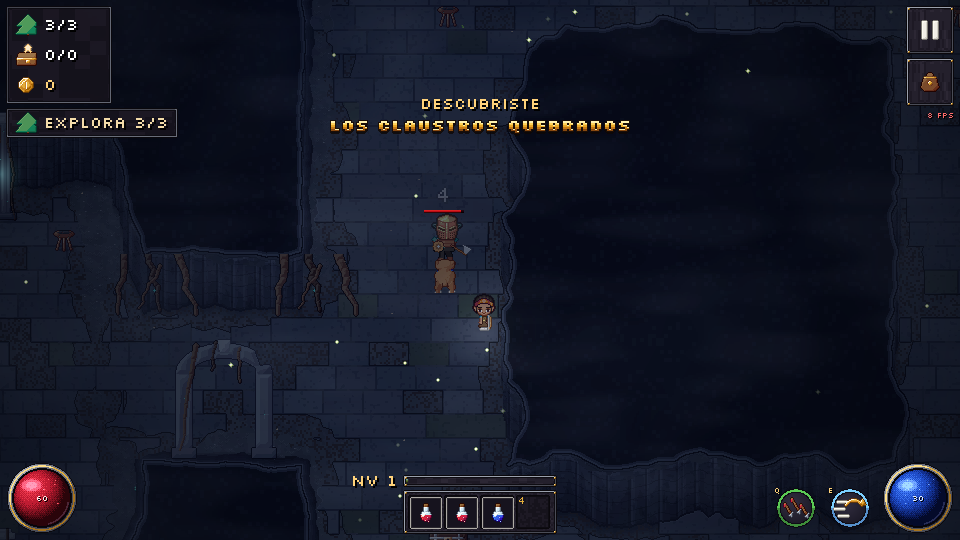
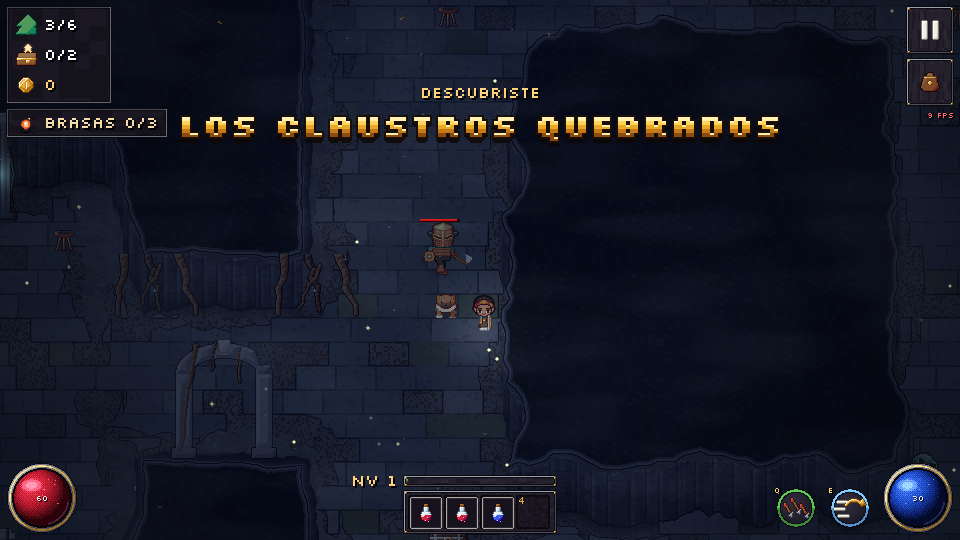
F8: nombre del jefe en la barra, las raíces se van al terminar la pelea, capturas e informe de la Catedral
Claude-Session: https://claude.ai/code/session_01FVGDw8m8HkUtXF2k5wxUDf

Changed region(s): [[0.0, 0.1481, 0.8125, 0.2667], [0.4375, 0.3852, 0.5312, 0.5926], [0.0625, 0.0889, 0.0938, 0.1185]]

diff --git a/docs/capturas/f8/informe.html b/docs/capturas/f8/informe.html
@@ -1,0 +1,26 @@
+<!doctype html>
+<html lang="es"><head><meta charset="utf-8"><meta name="viewport" content="width=device-width,initial-scale=1"><title>La Catedral de las Raíces</title>
+<style>
+ body { background:#0b0e14; color:#e6e0d2; font:16px/1.45 system-ui,sans-serif; margin:0; padding:24px; max-width:1400px }
+ h1 { font-size:24px; margin:0 0 4px } h2 { font-size:18px; color:#8affe8; margin:32px 0 6px } p { color:#b8b4a8; margin:0 0 10px }
+ .par { display:grid; grid-template-columns:1fr 1fr; gap:12px } figure { margin:0 }
+ img { width:100%; image-rendering:pixelated; display:block; border:1px solid #2a3040 } figcaption { color:#9a9caa; font-size:13px; margin-top:4px }
+ ul { color:#cfcabd } li { margin:4px 0 } .nota { color:#ffd27a }
+ @media (max-width:800px) { .par { grid-template-columns:1fr } }
+</style></head><body>
+<h1>La Catedral de las Raíces</h1>
+<p>Mundo 2 de GG Abyss. Capturas del juego con luces, bruma, partículas y personajes, en escritorio y en tablet.</p>
+<h2>Lo comprobado</h2>
+<ul id="comprobado">
+<li>Suite completa: en verificación (se actualiza al terminar).</li>
+<li>Se completa de la entrada al desenlace: bajar por el portal del minotauro, recoger las tres brasas, entrar caminando a la forja y al campanario, liberar al guardián y llegar a la bajada (pruebas de la Catedral en escritorio y tablet).</li>
+<li>Las brasas abren el camino en orden: con todo cerrado no se llega a la forja; con 1 brasa sí. Las dos primeras se alcanzan sin ninguna (sin trabas).</li>
+<li>Guardado: la partida recuerda el mundo, las zonas, las brasas y las compuertas al recargar; volver al Bosque deja todo como estaba (jefe vencido, portal abierto) y el oro y el nivel viajan con la heroína. Las partidas viejas quedan en el Bosque.</li>
+<li>El Bosque no cambió: el kit regenerado deja todos sus archivos idénticos.</li>
+<li>Tablet con toque: el recorrido, los portales y el refugio pasan en la vista tablet. Modo peque: las pruebas del vado y de las brasas corren con Alana, que tiene el modo peque prendido.</li>
+<li>Calidad baja: <a href="atrio_calidad_baja.png">el atrio en calidad baja</a> mantiene el camino, el refugio y los avisos legibles.</li>
+<li class="nota">No medido: el rendimiento en una tablet de verdad. Las capturas vienen del Chromium sin GPU del contenedor. Para medir en el iPad: abrir el juego con ?medir=1.</li>
+<li class="nota">Hecho con piezas técnicas mientras el taller entrega lo suyo: el anillo de la onda, la mancha de raíces y el audio propio de la Catedral (ASSETS_PENDIENTES #30).</li>
+</ul>
+<section><h2>La bajada</h2><p>El paso entre mundos: el nombre del mundo sobre negro y el sonido del portal. Un toque lo salta.</p><div class="par"><figure><img src="bajada.png" alt="Escritorio (960 x 540)" loading="lazy"><figcaption>Escritorio (960 x 540)</figcaption></figure><figure><img src="bajada_tablet.png" alt="Tablet (1180 x 820, dpr 2)" loading="lazy"><figcaption>Tablet (1180 x 820, dpr 2)</figcaption></figure></div></section><section><h2>La escalera hundida</h2><p>Llega arriba, en el descanso, con el portal azul para volver al Bosque. La luz de afuera baja por los escalones y se apaga.</p><div class="par"><figure><img src="escalera_hundida.png" alt="Escritorio (960 x 540)" loading="lazy"><figcaption>Escritorio (960 x 540)</figcaption></figure><figure><img src="escalera_hundida_tablet.png" alt="Tablet (1180 x 820, dpr 2)" loading="lazy"><figcaption>Tablet (1180 x 820, dpr 2)</figcaption></figure></div></section><section><h2>El atrio de las luciérnagas</h2><p>El primer refugio: el brasero de cobre es fogata y tienda. El pedestal muestra las tres brasas que faltan, sin texto.</p><div class="par"><figure><img src="atrio_luciernagas.png" alt="Escritorio (960 x 540)" loading="lazy"><figcaption>Escritorio (960 x 540)</figcaption></figure><figure><img src="atrio_luciernagas_tablet.png" alt="Tablet (1180 x 820, dpr 2)" loading="lazy"><figcaption>Tablet (1180 x 820, dpr 2)</figcaption></figure></div></section><section><h2>El atrio con las brasas</h2><p>Con las brasas: el pedestal y los braseros encendidos.</p><div class="par"><figure><img src="atrio_con_brasas.png" alt="Escritorio (960 x 540)" loading="lazy"><figcaption>Escritorio (960 x 540)</figcaption></figure><figure><img src="atrio_con_brasas_tablet.png" alt="Tablet (1180 x 820, dpr 2)" loading="lazy"><figcaption>Tablet (1180 x 820, dpr 2)</figcaption></figure></div></section><section><h2>Los claustros quebrados</h2><p>Ruta clara alrededor del jardín cerrado. El guardián de cobre en la entrada, raicitas en el pasillo del este y una brasa arriba.</p><div class="par"><figure><img src="claustros_quebrados.png" alt="Escritorio (960 x 540)" loading="lazy"><figcaption>Escritorio (960 x 540)</figcaption></figure><figure><img src="claustros_quebrados_tablet.png" alt="Tablet (1180 x 820, dpr 2)" loading="lazy"><figcaption>Tablet (1180 x 820, dpr 2)</figcaption></figure></div></section><section><h2>El guardián de cobre</h2><p>Su golpe grande avisa 1.5 s con el anillo rojo. Después queda clavado un segundo: ahí se le pega.</p><div class="par"><figure><img src="guardian_aviso.png" alt="Escritorio (960 x 540)" loading="lazy"><figcaption>Escritorio (960 x 540)</figcaption></figure><figure><img src="guardian_aviso_tablet.png" alt="Tablet (1180 x 820, dpr 2)" loading="lazy"><figcaption>Tablet (1180 x 820, dpr 2)</figcaption></figure></div></section><section><h2>La capilla escondida</h2><p>El secreto: una rendija con raíces en el muro del claustro y un cofre dorado. Thor lo huele.</p><div class="par"><figure><img src="capilla_escondida.png" alt="Escritorio (960 x 540)" loading="lazy"><figcaption>Escritorio (960 x 540)</figcaption></figure><figure><img src="capilla_escondida_tablet.png" alt="Tablet (1180 x 820, dpr 2)" loading="lazy"><figcaption>Tablet (1180 x 820, dpr 2)</figcaption></figure></div></section><section><h2>La nave inundada</h2><p>El río de agua casi negra. El puente es seguro. En el vado, pisar fuera de las losas es caer: Thor la saca y no se pierde nada. El vigía tira su bola violeta desde la otra orilla.</p><div class="par"><figure><img src="nave_inundada.png" alt="Escritorio (960 x 540)" loading="lazy"><figcaption>Escritorio (960 x 540)</figcaption></figure><figure><img src="nave_inundada_tablet.png" alt="Tablet (1180 x 820, dpr 2)" loading="lazy"><figcaption>Tablet (1180 x 820, dpr 2)</figcaption></figure></div></section><section><h2>La forja apagada</h2><p>El centro del mundo, cerrado con raíces hasta la primera brasa.</p><div class="par"><figure><img src="forja_apagada.png" alt="Escritorio (960 x 540)" loading="lazy"><figcaption>Escritorio (960 x 540)</figcaption></figure><figure><img src="forja_apagada_tablet.png" alt="Tablet (1180 x 820, dpr 2)" loading="lazy"><figcaption>Tablet (1180 x 820, dpr 2)</figcaption></figure></div></section><section><h2>La forja encendida</h2><p>Con las tres brasas: la boca arde, las raíces pasan a turquesa y se abre el camino al campanario.</p><div class="par"><figure><img src="forja_encendida.png" alt="Escritorio (960 x 540)" loading="lazy"><figcaption>Escritorio (960 x 540)</figcaption></figure><figure><img src="forja_encendida_tablet.png" alt="Tablet (1180 x 820, dpr 2)" loading="lazy"><figcaption>Tablet (1180 x 820, dpr 2)</figcaption></figure></div></section><section><h2>El campanario invertido</h2><p>La arena alrededor de la campana colgada de las raíces.</p><div class="par"><figure><img src="campanario.png" alt="Escritorio (960 x 540)" loading="lazy"><figcaption>Escritorio (960 x 540)</figcaption></figure><figure><img src="campanario_tablet.png" alt="Tablet (1180 x 820, dpr 2)" loading="lazy"><figcaption>Tablet (1180 x 820, dpr 2)</figcaption></figure></div></section><section><h2>El Guardián de la Campana: la entrada</h2><p>Su nombre grande y la barra arriba.</p><div class="par"><figure><img src="campana_entrada.png" alt="Escritorio (960 x 540)" loading="lazy"><figcaption>Escritorio (960 x 540)</figcaption></figure><figure><img src="campana_entrada_tablet.png" alt="Tablet (1180 x 820, dpr 2)" loading="lazy"><figcaption>Tablet (1180 x 820, dpr 2)</figcaption></figure></div></section><section><h2>Golpe frontal</h2><p>Fase 1: solo el golpe frontal anunciado.</p><div class="par"><figure><img src="campana_golpe.png" alt="Escritorio (960 x 540)" loading="lazy"><figcaption>Escritorio (960 x 540)</figcaption></figure><figure><img src="campana_golpe_tablet.png" alt="Tablet (1180 x 820, dpr 2)" loading="lazy"><figcaption>Tablet (1180 x 820, dpr 2)</figcaption></figure></div></section><section><h2>Onda de campana</h2><p>Fase 2, la primera vez sola: el anillo violeta pega, el centro turquesa (cerca de la campana) está a salvo. Después queda aturdido.</p><div class="par"><figure><img src="campana_onda.png" alt="Escritorio (960 x 540)" loading="lazy"><figcaption>Escritorio (960 x 540)</figcaption></figure><figure><img src="campana_onda_tablet.png" alt="Tablet (1180 x 820, dpr 2)" loading="lazy"><figcaption>Tablet (1180 x 820, dpr 2)</figcaption></figure></div></section><section><h2>Llamada de raíces</h2><p>Con poca vida, la primera vez sola: tres manchas donde salen raíces que tapan el paso un rato, sin encerrarla.</p><div class="par"><figure><img src="campana_raices.png" alt="Escritorio (960 x 540)" loading="lazy"><figcaption>Escritorio (960 x 540)</figcaption></figure><figure><img src="campana_raices_tablet.png" alt="Tablet (1180 x 820, dpr 2)" loading="lazy"><figcaption>Tablet (1180 x 820, dpr 2)</figcaption></figure></div></section><section><h2>La Catedral liberada</h2><p>La campana pasa a turquesa, la oscuridad baja y se abre la bajada más honda.</p><div class="par"><figure><img src="campana_libre.png" alt="Escritorio (960 x 540)" loading="lazy"><figcaption>Escritorio (960 x 540)</figcaption></figure><figure><img src="campana_libre_tablet.png" alt="Tablet (1180 x 820, dpr 2)" loading="lazy"><figcaption>Tablet (1180 x 820, dpr 2)</figcaption></figure></div></section>
+</body></html>

diff --git a/e2e/postales.spec.ts b/e2e/postales.spec.ts
@@ -366,3 +366,61 @@ test('captura la Catedral: la bajada, la escalera, el atrio, los claustros con e
     await ctx.close()
   }
 })
+
+/** F8: el Guardián de la Campana: la entrada, la onda (el anillo con el centro seguro), las raíces y la liberación */
+test('captura al Guardián de la Campana y la Catedral liberada', async ({ browser }) => {
+  test.setTimeout(400_000)
+  const dir = join('docs', 'capturas', 'f8')
+  mkdirSync(dir, { recursive: true })
+  const vistas = [
+    { sufijo: '', ctx: { viewport: { width: 960, height: 540 }, deviceScaleFactor: 1 } },
+    { sufijo: '_tablet', ctx: { viewport: { width: 1180, height: 820 }, deviceScaleFactor: 2, hasTouch: true, isMobile: true } },
+  ]
+  type J = { fase: number; vida: number; vidaMax: number; avisos: { ataque: string; resta: number; total: number }[] }
+  for (const v of vistas) {
+    const ctx = await browser.newContext(v.ctx)
+    const page = await ctx.newPage()
+    const errores = vigilarErrores(page)
+    await abrirMundo(page, 'sophie')
+    await gancho(page, 'irAMundo', 'mundo2')
+    await esperarEscena(page, 'Bajada')
+    await esperarEscena(page, 'Mundo')
+    await page.waitForFunction(() => { const a = window.__ABYSS__ as unknown as Record<string, () => unknown>; return typeof a.noEsperar === 'function' && a.noEsperar() === true && typeof a.mundoActual === 'function' }, null, { timeout: 120_000 })
+    await gancho(page, 'darBrasas', 3)
+    await gancho(page, 'ponerNivel', 10)
+    await gancho(page, 'avanzar', 0.5)
+    await gancho(page, 'irAPostal', 'campanario_invertido')
+    await gancho(page, 'avanzar', 1)
+    await page.waitForTimeout(3000)
+    await page.screenshot({ path: join(dir, `campanario${v.sufijo}.png`) })
+    await gancho(page, 'entrarArena')
+    await gancho(page, 'avanzar', 1)
+    await page.waitForTimeout(500)
+    await page.screenshot({ path: join(dir, `campana_entrada${v.sufijo}.png`) })
+    await gancho(page, 'avanzar', 3)
+    // se espera un aviso a la mitad para cada patrón
+    const capturar = async (ataque: string, archivo: string) => {
+      for (let t = 0; t < 30; t += 0.1) {
+        await gancho(page, 'curarTodo')
+        await gancho(page, 'avanzar', 0.1)
+        const a = (await gancho<J>(page, 'jefe')).avisos.find((q) => q.ataque === ataque)
+        if (a && a.resta < a.total * 0.55) break
+      }
+      await page.waitForTimeout(300)
+      await page.screenshot({ path: join(dir, `${archivo}${v.sufijo}.png`) })
+    }
+    await capturar('golpe_fuerte', 'campana_golpe')
+    const j = await gancho<J>(page, 'jefe')
+    await gancho(page, 'danarJefe', j.vida - j.vidaMax * 0.5)
+    await capturar('onda', 'campana_onda')
+    const j2 = await gancho<J>(page, 'jefe')
+    await gancho(page, 'danarJefe', j2.vida - j2.vidaMax * 0.3)
+    await capturar('raices', 'campana_raices')
+    await gancho(page, 'danarJefe', 9999)
+    for (let i = 0; i < 8; i++) await gancho(page, 'avanzar', 1)
+    await page.waitForTimeout(8000)
+    await page.screenshot({ path: join(dir, `campana_libre${v.sufijo}.png`) })
+    await sinErrores(errores)
+    await ctx.close()
+  }
+})

diff --git a/src/scenes/Mundo.ts b/src/scenes/Mundo.ts
@@ -112,6 +112,8 @@ export class Mundo extends Phaser.Scene {
   mecanismos: Mecanismos | null = null
   private destinoBrasa: { firma: string; p: { x: number; y: number } | null } = { firma: '', p: null }
   private ultimaSegura = { x: 0, y: 0 }
+  /** F8: las raíces de la llamada que siguen en pie (se van solas, o todas juntas cuando termina la pelea) */
+  private raicesActivas: { quitar: () => void }[] = []
   /** F8: a dónde va la oscuridad de la Catedral cuando el guardián se libera */
   private aclaradoMeta = 1
   private enAgua = 0
@@ -264,6 +266,7 @@ export class Mundo extends Phaser.Scene {
     this.enAgua = 0
     this.caidasAgua = 0
     this.aclaradoMeta = 1
+    this.raicesActivas = []
     this.destinoBrasa = { firma: '', p: null }
     // la escena es la misma al volver de Continuará o de otro mundo: el portal tiene que poder usarse otra vez, y lo
     // del jefe del mundo anterior no sigue acá (un mundo sin jefe no hereda el del Bosque)
@@ -580,10 +583,18 @@ export class Mundo extends Phaser.Scene {
       const s = def && this.textures.exists(key) ? this.add.sprite(Math.round(p.x), Math.round(p.y + 16), key, 0).setOrigin(def.apoyo[0] / def.w, def.apoyo[1] / def.h).setDepth(PROF.OBJETOS + p.y).setScale(1, 0.1) : null
       if (s) this.tweens.add({ targets: s, scaleY: 1, duration: 220, ease: 'Back.easeOut' })
       this.atmosfera.particulas.estallido(p.x, p.y, 'polvo', 6)
-      this.time.delayedCall(seg * 1000, () => {
-        liberar?.()
-        if (s) this.tweens.add({ targets: s, scaleY: 0.1, alpha: 0, duration: 300, onComplete: () => s.destroy() })
-      })
+      let hecho = false
+      const r = {
+        quitar: () => {
+          if (hecho) return
+          hecho = true
+          liberar?.()
+          if (s) this.tweens.add({ targets: s, scaleY: 0.1, alpha: 0, duration: 300, onComplete: () => s.destroy() })
+          this.raicesActivas = this.raicesActivas.filter((q) => q !== r)
+        },
+      }
+      this.raicesActivas.push(r)
+      this.time.delayedCall(seg * 1000, () => r.quitar())
     }
   }
 
@@ -672,6 +683,7 @@ export class Mundo extends Phaser.Scene {
     this.director.cortar()
     this.jefe.reposar()
     this.enemigos.quitarInvocadas()
+    for (const r of [...this.raicesActivas]) r.quitar()
     this.soltarAnillo()
     this.apagarPiedras()
     this.sonido.fijarMusica(null)
@@ -688,6 +700,7 @@ export class Mundo extends Phaser.Scene {
     this.partida.jefeVida = undefined
     this.soltarAnillo()
     this.enemigos.quitarInvocadas()
+    for (const r of [...this.raicesActivas]) r.quitar()
     this.entidades.mostrarCofresTrasJefe()
     // F8: el Guardián de la Campana no muere: se libera de la corrupción y la catedral se ilumina
     if (this.jefe?.tipo === 'guardian_campana') this.liberarCatedral(!yaVencido)

diff --git a/src/game/ui/HudCombate.ts b/src/game/ui/HudCombate.ts
@@ -309,6 +309,11 @@ export class HudCombate {
       this.muescaJefe.setVisible(false)
       return
     }
+    // el nombre del jefe de este mundo (el minotauro o el guardián de la campana)
+    if (this.nombreJefe.text !== j.nombre) {
+      this.nombreJefe.setText(j.nombre)
+      this.acomodar()
+    }
     const f = Phaser.Math.Clamp(j.vida / j.vidaMax, 0, 1)
     if (!this.jefeVisto) {
       // recién empieza: la barra se llena desde cero

diff --git a/PROGRESO.md b/PROGRESO.md
@@ -9,7 +9,7 @@ Memoria de la sesión larga. Se actualiza al cerrar cada tarea.
 - Tarjeta del botín hecha: al recoger algo que se puede poner dice si es mejor o peor que lo puesto, las 3 diferencias que más pesan y el botón "Ponérmelo". Lo que es mejor se marca en el piso con una flechita verde.
 - F7 hecha (PLAN.md F7): anticipación del enemigo, fallos y esquivas visibles, destello y pausa de impacto con tope, efectos suaves, colchón de entrada de 150 ms, música por estados con histéresis, agua según la cercanía, demostraciones para Alana con Saltar, objetivo a la vista, medidor `?medir=1` e interruptor "Mejoras F7" en la pausa. Antes y después en `docs/capturas/f7/antes_despues.html`. Verificación: typecheck, 285 tests unitarios, build y e2e completo 131 pasaron y 2 se saltan a propósito, más combate (19) con el colchón en el build final.
 - F8 rebanada hecha (PLAN.md F8, "Estado de la rebanada"): la Catedral de las Raíces se baja por el portal del jefe, se recorre la escalera hundida, el atrio de las luciérnagas y la entrada de los claustros con el guardián de cobre, y se vuelve al Bosque por el portal azul sin perder nada. Capturas en `docs/capturas/f8/`.
-- En curso: F8 completo (claustros con atajo y secreto, nave inundada, forja con las tres brasas, campanario y el Guardián de la Campana).
+- F8 completo en código (PLAN.md F8, "Estado del mundo completo"): la Catedral se recorre de la escalera al campanario, con las tres brasas, la forja, los tres comportamientos de enemigo y el Guardián de la Campana. Al liberarlo, el portal rojo lleva a Continuará.
 - Verificación final tras F5: typecheck limpio, 236 tests unitarios, build (sw.js con 628 archivos) y e2e completo 112 pasaron y 2 se saltan a propósito (teclado y resize en tablet). Postales de F5 en `docs/capturas/f5/` y `docs/capturas/comparar.html`.
 - F1b hecha en código: Titulo (logo, Toca para empezar, botón Créditos), SeleccionJugador (tarjetas del manifest, aura y Thor), guardado con migración, Presentacion (paneo la primera vez), Entidades (cofres, carteles, fogatas, Abuelo), HUD (contadores, oro, pausa, panel de cartel), Pausa (Noche, Música, Efectos, calidad, modo peque, otra jugadora, créditos, seguir), Creditos (CREDITOS.txt con scroll)
 - F1a hecha: grilla, A*, movimiento, zonas, descubrimiento; MundoVista, Decos (pool por celdas, viento, hechizados, copas, pasto), Heroina, ThorSprite (sigue el rastro), Criaturas, Camara, Entrada (toque, mantener, teclado), Sonido; fx: Luces (RenderTexture con pozos), Bruma, Nubes, Particulas, AtmosferaFX (postFX soft light y viñeta), Atmosfera; escenas Mundo y HUD; postales en docs/capturas/f1a y comparar.html
@@ -133,7 +133,10 @@ npm run typecheck && npm test && npm run build && npm run e2e
 - Probar: vencer al minotauro y entrar al portal. Arriba de la escalera está el portal azul para volver. El brasero del atrio es fogata y tienda.
 - El guardián de cobre enseña una cosa: cuando el anillo rojo se llena hay que salirse, y después del golpe queda clavado un segundo para pegarle.
 - Lo que vale la pena mirar con las niñas: si la catedral les da miedo o curiosidad (oscuridad por zona en el mapa del taller), si el guardián se entiende sin explicarlo, y si el portal azul de la escalera las saca sin querer.
-- Lo que falta de F8: claustros completos con el atajo y el secreto de Thor, la nave inundada con su peligro seguro, la forja y las tres brasas, la raicita y el vigía, el campanario y el Guardián de la Campana.
+- `docs/capturas/f8/informe.html`: todas las zonas, la forja apagada y encendida, el guardián de cobre, las tres fases del Guardián de la Campana y la Catedral liberada, con lo que se comprobó.
+- Probar la Catedral entera: bajar por el portal del minotauro, buscar las brasas (el chip dice "Brasas 0/3", Thor las huele con la T o tocándolo), entrar a la forja y después al campanario.
+- Para mirar con las niñas: si el vado se entiende como "pisa las piedras" sin explicarlo, si la raicita persiguiendo a Thor les da risa o confunde, y si el centro turquesa de la onda se lee como "acá estoy a salvo".
+- Lo que falta de F8 necesita al taller: `aviso_onda`, `aviso_raiz`, `puerta_atajo` y el audio propio (lista en ASSETS_PENDIENTES #30).
 
 ### Cascada
 - `docs/capturas/f5/cascada_y_vado.png` y `cascada_y_vado_tablet.png`: la cortina tapa justo la pared del acantilado y abajo hay espuma y estela.

diff --git a/ASSETS_PENDIENTES.md b/ASSETS_PENDIENTES.md
@@ -28,10 +28,19 @@ Cuando el taller entregue algo: `git submodule update --remote tools/pixel_forja
 - **Pedido:** `audio/ambiente_madera.wav`, 12 s en bucle sin corte, crujidos sueltos de tablas y una cuerda que se tensa, bajito (pico 0.5 como los otros ambientes).
 - **Mientras tanto:** los puentes suenan solo al pisarlos (`paso_madera_*`).
 
-### 30. F8, lo que falta de la Catedral (se hace en el taller en las próximas entregas)
+### 30. F8, lo que falta de la Catedral
 
-| Recurso | Tamaño | Cuadros y tiempos | Apoyo / sólido | Uso |
-|---|---|---|---|---|
+Ya entregado por el taller (ver abajo): el puente de piedra, las losas del vado, la forja en sus 4 estados, la brasa, la campana corrompida y libre, la raicita, el vigía de las raíces y el Guardián de la Campana. Falta:
+
+| Recurso | Tamaño | Cuadros y tiempos | Apoyo / sólido | Uso | Mientras tanto |
+|---|---|---|---|---|---|
+| `aviso_onda` | 352 x 352 | 8 cuadros que se llenan, anillo con el centro libre | capa suelo | la onda de campana | anillo violeta con el centro turquesa dibujado como capa técnica (como la línea de la carga del minotauro) |
+| `aviso_raiz` | 96 x 48 | 8 cuadros | capa suelo | las manchas de la llamada de raíces | `aviso_jefe` teñido de violeta |
+| `puerta_atajo` | 64 x 64 | cerrada 1, abrir 6 a 10 fps | sólida cerrada | el atajo del claustro | `raices_cortina` que se recoge al abrirse |
+| Audio | — | — | — | `musica_jefe_campana`, `musica_forja`, `ambiente_agua_negra`, `fuelle`, `campana`, `brasa_recoger`, `raices` | la campana suena con `bloqueo` grave, la brasa con `legendario`, las raíces con `romper`; en la arena suena `musica_jefe` |
+| Mundo 3 | — | — | — | lo que hay más abajo del campanario | el portal rojo lleva a Continuará |
+
+---|---|---|---|---|
 | `puente_piedra` | 128 x 48 | 1 | capa suelo, se camina | la nave inundada |
 | `forja` | 160 x 128 | apagada 1, 1 a 3 brasas 1 cada una, encendida 8 a 10 fps | apoyo [80, 120], sólido 120 x 20 | el centro del mundo |
 | `brasa` | 32 x 32 | 8 a 10 fps | haz ámbar | las tres brasas que se recogen |
@@ -76,6 +85,7 @@ El taller entregó 5 tandas (entregas 1, 2, 3a, 3b y 3c, submódulo en `8ba7f2a`
 | `ui.continuara` | F4 |
 | Íconos de la app (`manifest.app`) y `ui.girar_tablet` | F5 |
 | F8 rebanada: la Catedral (mapa, losas, muros tallados), columnas, arco roto, braseros, pedestal de brasas, raíces, escombros, haz de luz, luciérnaga turquesa, Guardián de cobre, `musica_catedral`, `ambiente_catedral` | F8 |
+| F8 completo: `puente_piedra`, `losa_hundida_0/1`, `forja_0` a `forja_3`, `brasa`, `campana` y `campana_libre`, raicita, vigía de las raíces, Guardián de la Campana (celda 96) | F8 |
 
 ---
 

diff --git a/PLAN.md b/PLAN.md
@@ -804,6 +804,13 @@ Debajo del bosque, una catedral atravesada por raíces. La familia baja para rec
 - Hechos del taller: `columna_raiz` 48 x 112 y `columna_rota` 48 x 72 (apoyo [24, alto-4], sólido 20 x 6, luz turquesa), `arco_roto` 128 x 128 (dos patas sólidas), `brasero_cobre` 32 x 48 (6 cuadros a 8 fps, luz ámbar 200) y `brasero_apagado`, `pedestal_brasas_0` a `_3` 48 x 40, `raices_muro` 96 x 64 (4 cuadros, capa suelo), `raices_cortina` 64 x 96 (sólida), `escombros` 64 x 48, `haz_luz` 96 x 160 (4 cuadros, capa suelo), `luciernaga_turquesa`, el Guardián de cobre (celda 64, pivote [32, 62], idle, walk, attack, attack_heavy, warcry, hit, die en 8 direcciones), `musica_catedral` y `ambiente_catedral`.
 - Juego: `manifest.mundos`, guardado por mundo con migración, el portal del jefe baja (escena Bajada) y el portal azul sube, el golpe pesado del guardián sin ser élite, partículas que no flotan sobre los muros de un interior.
 
+**Estado del mundo completo (hecho).**
+
+- Tramo 2: la nave inundada con el río de agua casi negra, el puente seguro y el vado de losas. Fuera de las losas el agua se pisa y es caer: Thor ladra y ella vuelve a la última losa firme sin perder nada. El camino automático nunca pasa por ahí (cuadros a evitar en la grilla). La raicita persigue a Thor si está cerca y a la heroína no le pega. El vigía tira la bola violeta desde su lugar. La capilla escondida con su cofre secreto.
+- Tramo 3: las tres brasas (nave, claustro y forja). Cada una prende braseros, cambia el pedestal y la forja, y abre una compuerta de raíces: con 1 la forja, con 2 el atajo, con 3 el campanario. Thor y la flecha guían a la brasa que falta.
+- Tramo 4: el Guardián de la Campana, con el mismo motor del minotauro y el perfil campana. Golpe frontal, onda de campana (anillo con el centro seguro) y llamada de raíces (tres manchas, las raíces tapan el paso un rato). Cada patrón nuevo se enseña solo la primera vez. Al ganar se libera: la campana pasa a turquesa y la oscuridad baja.
+- Lo que quedó distinto del plan: no hay mecanismo de fuelle ni puerta de atajo propia (se usan las compuertas de raíces), el aviso de la onda es un anillo técnico mientras el taller hace `aviso_onda`, y el portal del campanario lleva a Continuará hasta que exista el mundo 3.
+
 **Orden.** Este es el orden de entrega, no el definitivo, y cada tramo se valida antes de seguir.
 
 1. Rebanada: escalera, atrio y un encuentro con un guardián de cobre. Se valida escala, profundidad, controles y atmósfera.
